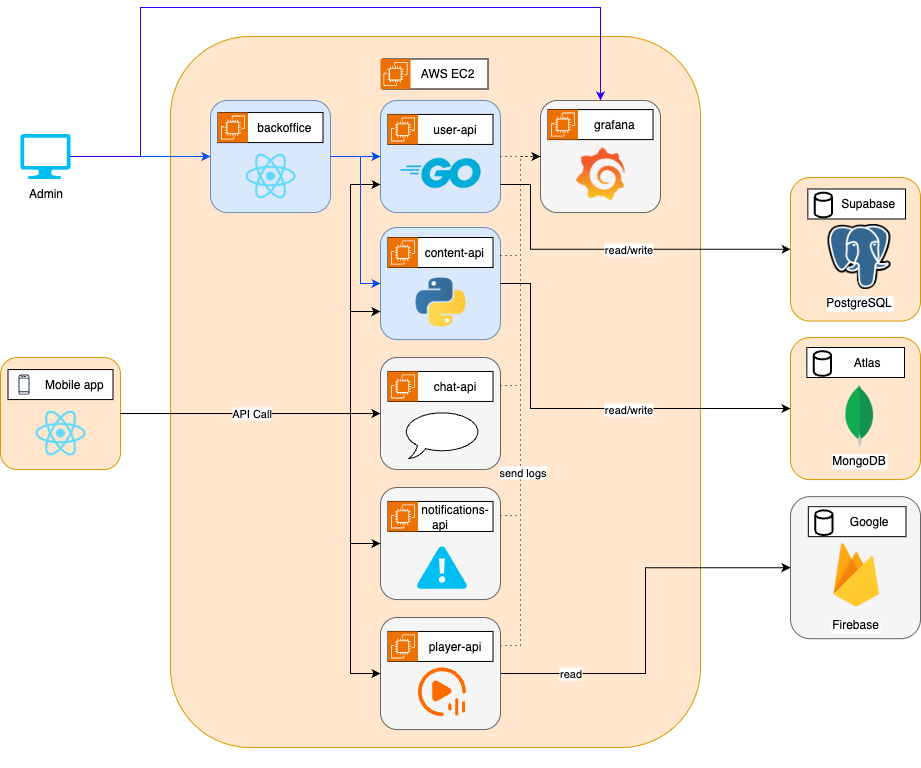
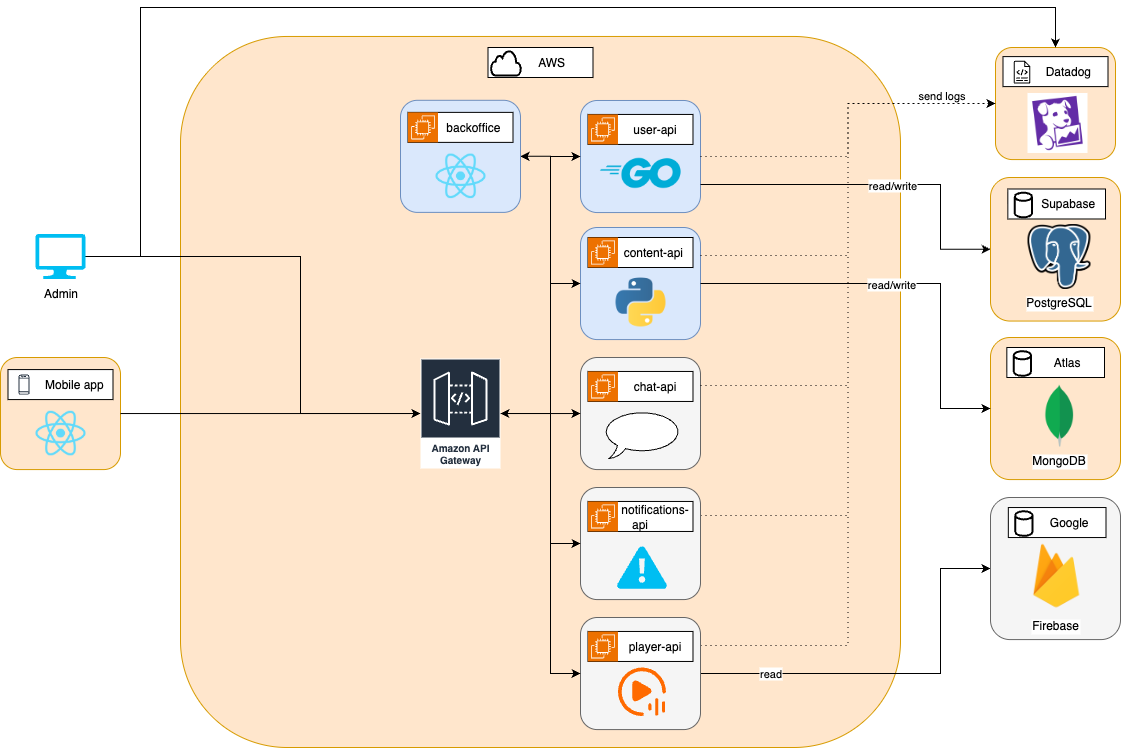
Actualizo grafico de arquitectura

diff --git a/README.md b/README.md
@@ -27,6 +27,10 @@ La idea principal es **englobar los conceptos más grandes** y dejar asentada un
 #### Arquitectura actual
 ![](img/arquitectura_actual.png)
 
+#### Arquitectura
+
+![](img/arquitectura.png)
+
 Actualmente la arquitectura esta formada por los siguientes servicios:
 - Mobile app: app mobile que se conecta a user-api y content-api
 - Backoffice: pagina web para dministrar
@@ -34,13 +38,9 @@ Actualmente la arquitectura esta formada por los siguientes servicios:
 - content-api: para gestionar contenido como artistas, canciones y playlists
 - PostgreSQL
 - MongoDB
-
-#### Arquitectura final
-
-![](img/arquitectura.png)
+- Datadog: recibira los logs de todos los servicios y se podrán generar dashboards para mejorar la visibilidad sobre todo el sistema
 
 La versión final incorporara los siguientes elementos:
-- Grafana: recibira los logs de todos los servicios y se podrán generar dashboards para mejorar la visibilidad sobre todo el sistema
 - Firebase: para poder almacenar los archivos multimedia
 - chat-api: se encargara de la funcionalidad de chat
 - notifications-api: se encargara de la funcionalidad de notificaciones
